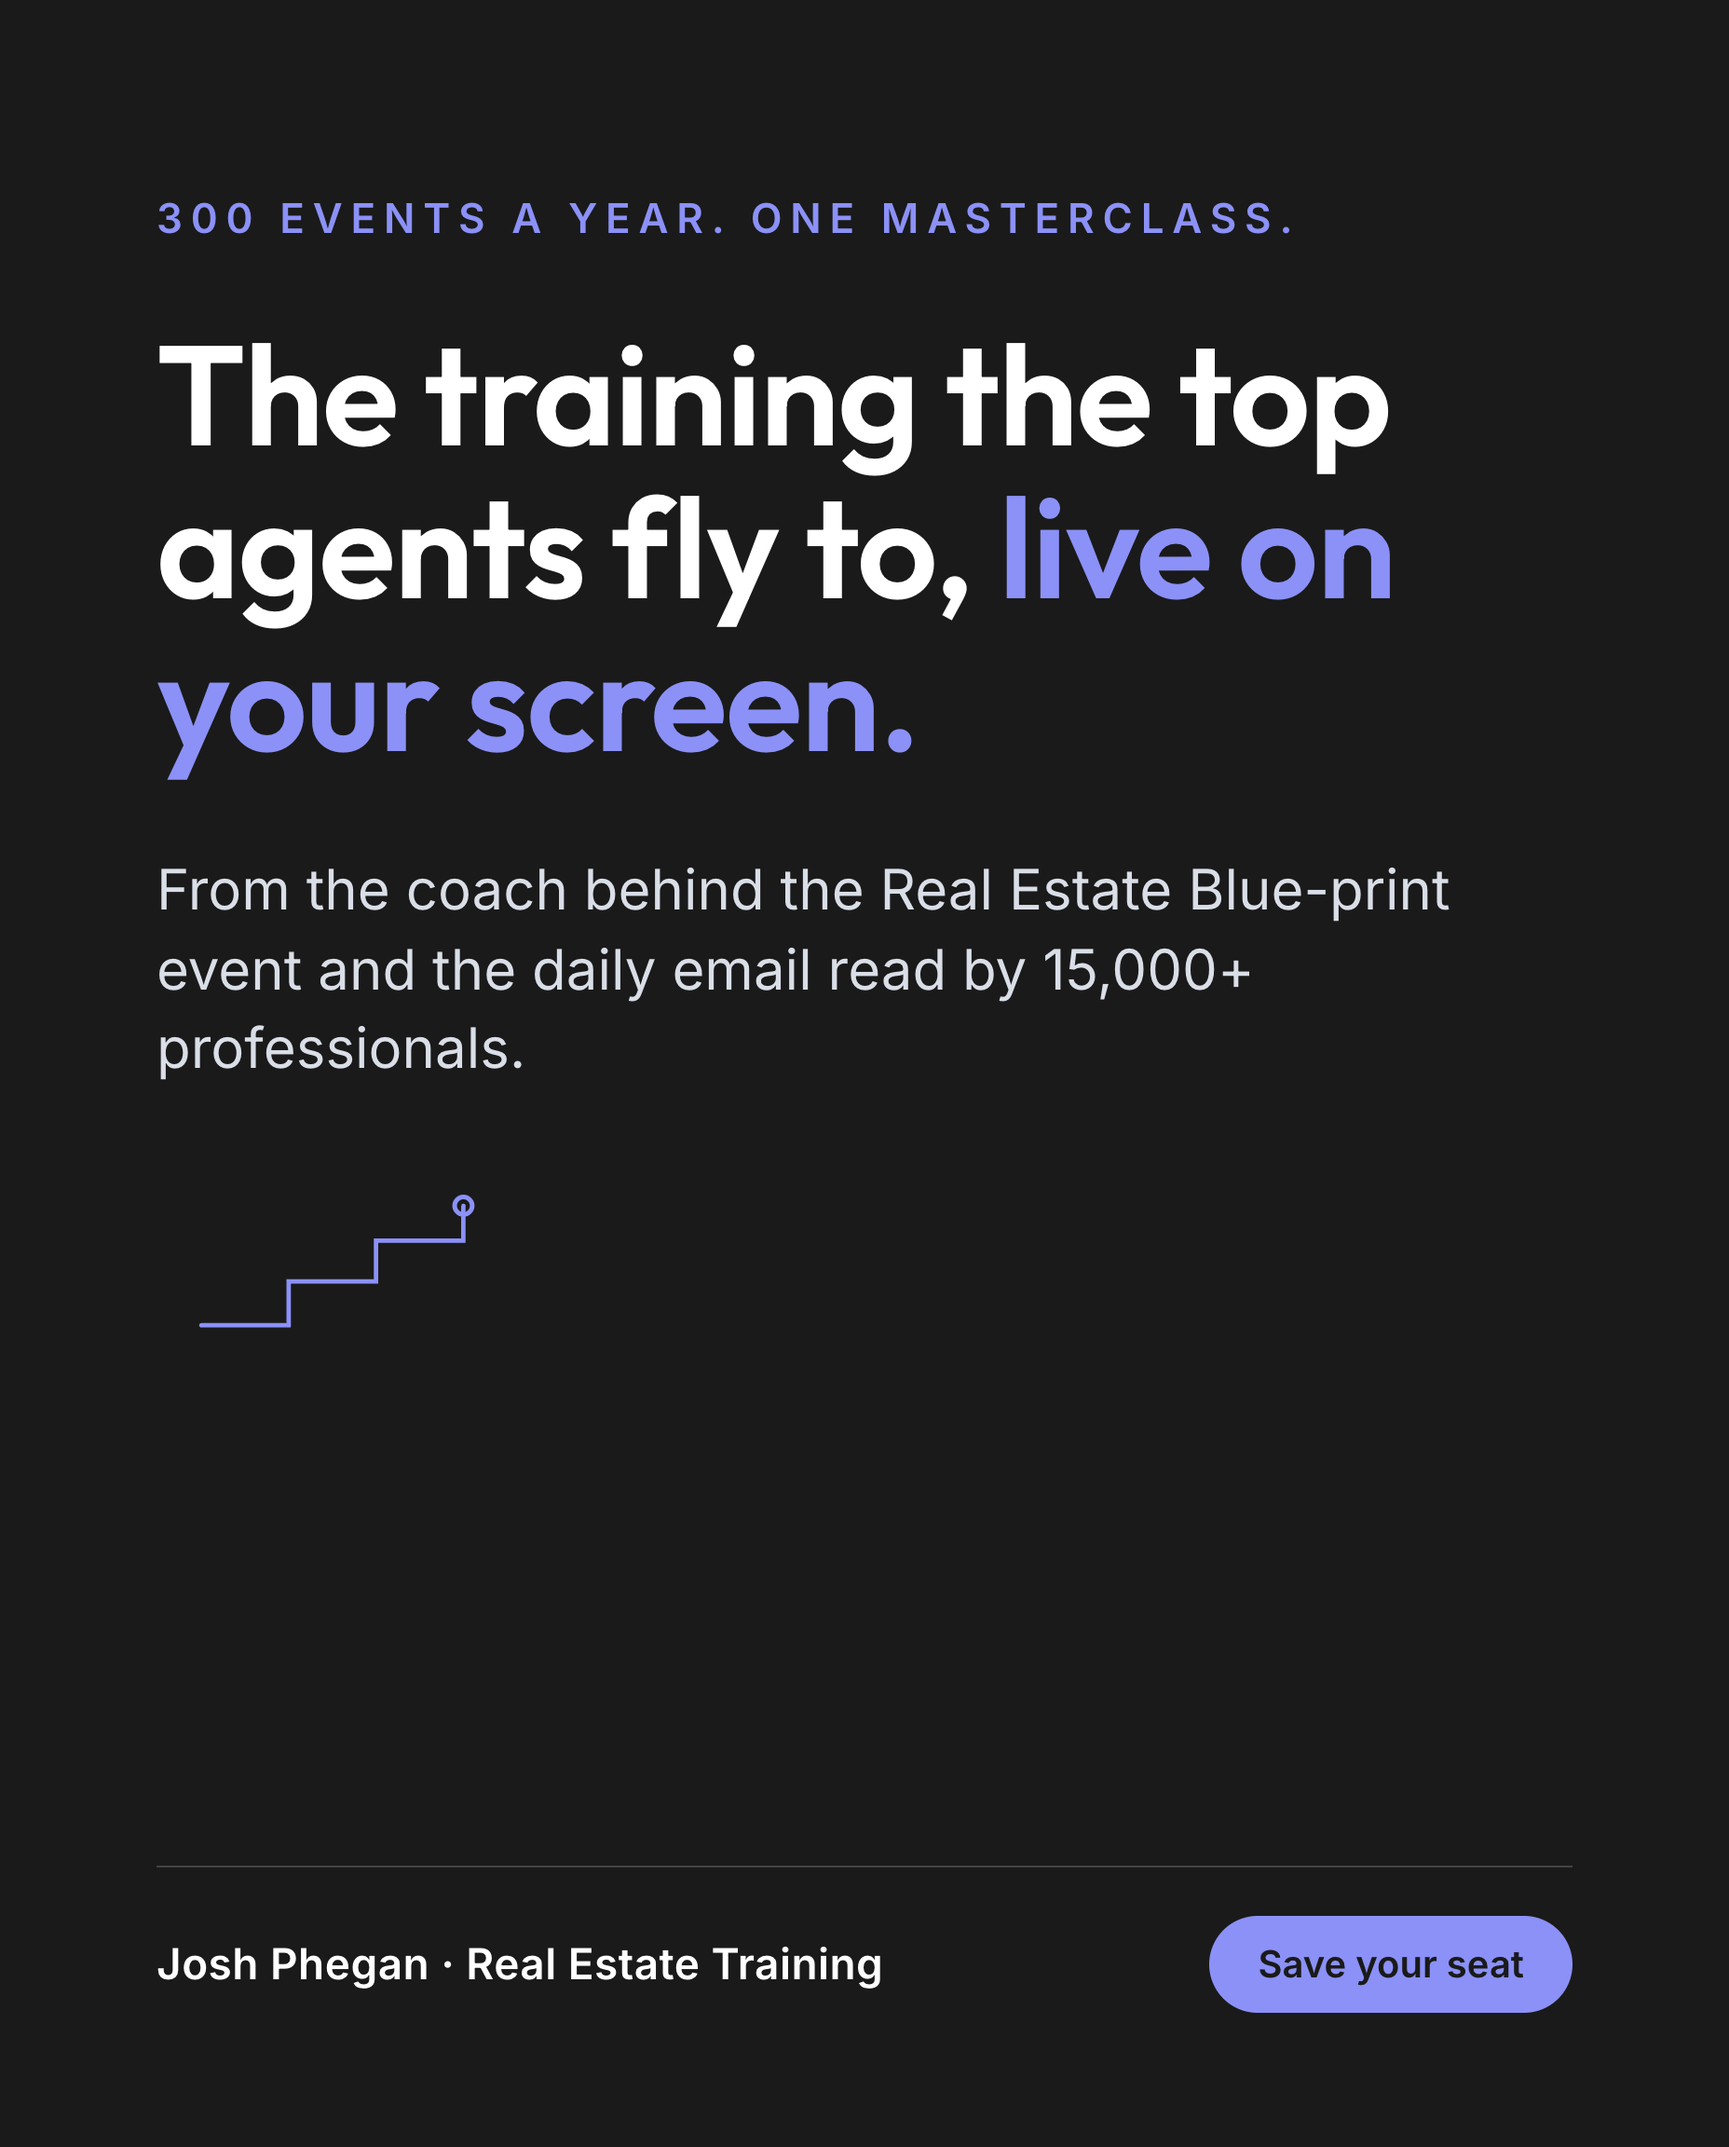
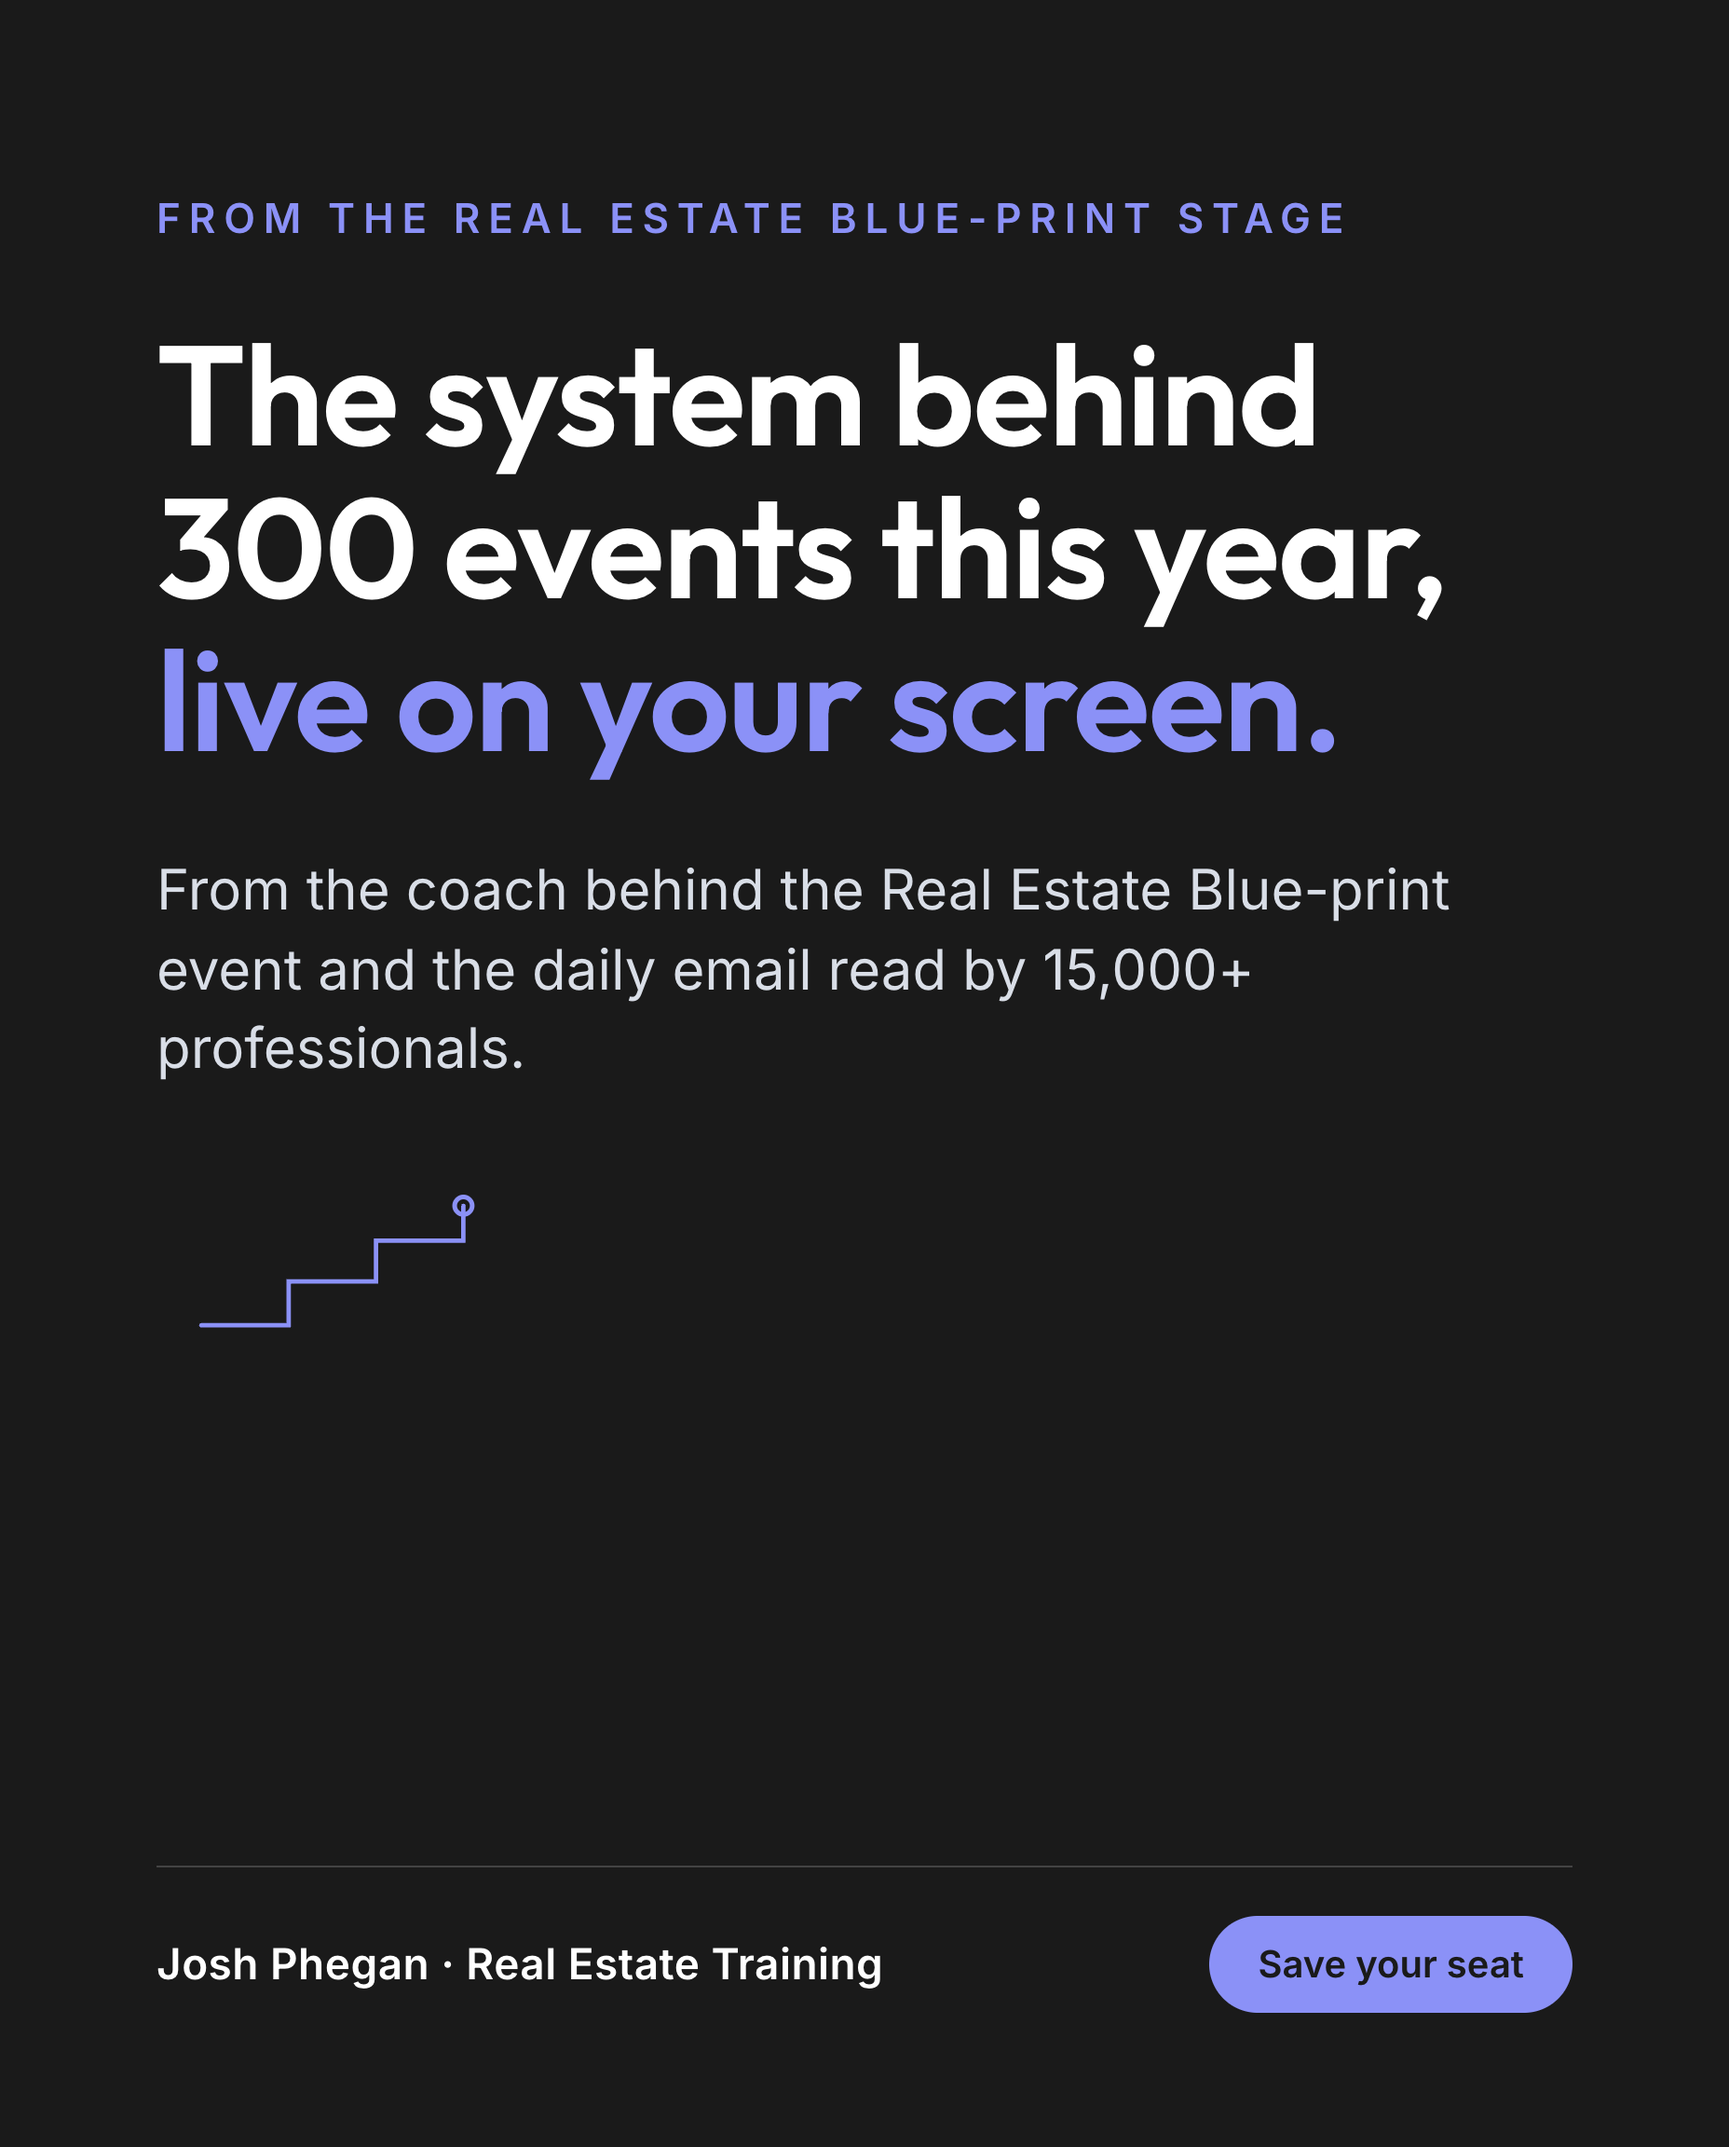
showcase: josh-phegan

Changed region(s): [[0.0938, 0.1562, 0.8438, 0.375], [0.0938, 0.0938, 0.7812, 0.125]]

diff --git a/josh-phegan/index.html b/josh-phegan/index.html
@@ -73,7 +73,7 @@
   </div>
 
   <h1>The Blue-print Masterclass</h1>
-  <p class="framing">Here is what I mentioned in my email: the masterclass, the numbers, and the auction data that did not fit in the message. You already built the hard part: the Blue-print, the Intense Program, List Sell Negotiate, 300 events a year, and the daily email behind it all. <strong>What you don't have is a system to bring in agents who have never heard of you and convert them into Digital members and coaching clients. This is that system.</strong></p>
+  <p class="framing">Here is what I mentioned in my email: the masterclass, the numbers, and the auction data that did not fit in the message. You already built the hard part: the Blue-print, the Intense Program, List Sell Negotiate, 300 events this year, and the daily email behind it all. <strong>What you don't have is a system to bring in agents who have never heard of you and convert them into Digital members and coaching clients. This is that system.</strong></p>
 
   <div class="section">
     <div class="section-label">The masterclass, already built</div>
@@ -87,7 +87,7 @@
       <img src="/josh-phegan/ad01.png" alt="Ad concept: Every month starts from zero. That is a system problem">
       <img src="/josh-phegan/ad02.png" alt="Ad concept: The number one preferred trainer for Australia's top 100 agents">
       <img src="/josh-phegan/ad03.png" alt="Ad concept: One system for prospecting, listing, negotiation and growth">
-      <img src="/josh-phegan/ad04.png" alt="Ad concept: 300 events a year, one live masterclass">
+      <img src="/josh-phegan/ad04.png" alt="Ad concept: the system behind 300 events this year, live on your screen">
     </div>
   </div>
 
@@ -126,11 +126,12 @@
         <tr class="hl"><td>Jess Lenouvel / The Listings Lab</td><td>Marketing and lead-gen coaching for agents</td><td class="running">Running: ~260</td></tr>
         <tr><td>AceableAgent</td><td>Licensing and exam-prep education</td><td class="running">Running: ~76</td></tr>
         <tr><td>Tom Ferry Coaching</td><td>US agent coaching, marketing-led</td><td class="running">Running: ~38</td></tr>
+        <tr><td>LuxeScale, Client Giant</td><td>Luxury-agent accelerator; client-gifting service</td><td class="running">Running: ~17 each</td></tr>
         <tr><td>Anyone teaching a performance system from the top of the market</td><td>Consistency and operating rhythm, not lead gen</td><td class="not-running">None found in the check</td></tr>
-        <tr class="you"><td>Josh Phegan</td><td>High-performance training for agents and agencies</td><td class="not-running">Not running, none found</td></tr>
+        <tr class="you"><td>Josh Phegan</td><td>High-performance training for agents and agencies</td><td class="not-running">None found in the check</td></tr>
       </tbody>
     </table>
-    <p class="fn">Agents scroll the same feed as everyone else, and hundreds of ads are buying their attention with marketing tactics and licensing courses every day, which means agent attention is bought with education already. No one we could find in the auction teaches what you actually own: the system the top of the market runs on. That lane is wide open for you, and the missing piece is paid traffic into the masterclass above.</p>
+    <p class="fn">Agents scroll the same feed as everyone else, and hundreds of ads globally are buying their attention with marketing tactics and licensing courses every day, which means agent attention is bought with education already. No one we could find in the auction teaches what you actually own: the system the top of the market runs on. That lane is wide open for you, and the missing piece is paid traffic into the masterclass above.</p>
   </div>
 
   <div class="section calendly-section">

diff --git a/josh-phegan/deck.html b/josh-phegan/deck.html
@@ -65,7 +65,7 @@
 <div class="nav prev" id="prev"></div>
 <div class="nav next" id="next"></div>
 <div class="hud"><i id="bar"></i></div>
-<div class="count" id="count">01 / 20</div>
+<div class="count" id="count">01 / 19</div>
 <div class="brand-foot">Josh Phegan</div>
 <div class="hint" id="hint">&rarr; click or arrow keys</div>
 
@@ -90,7 +90,7 @@ const S = [
 
  {t:'section',idx:'Part One',title:'Why Bursts Beat You'},
  {t:'normal',k:'The energy trap',title:'Effort without a system produces income without a pattern.',body:'A big month funds a quiet month, prospecting stops the moment listings arrive, and the pipeline empties exactly when you can least afford it. The result is a career that feels like starting over every season, no matter how good the last one was.'},
- {t:'normal',k:'The consistency gap',title:'What separates the top of the industry is not talent. It is cadence.',body:'Josh has trained and coached the who’s who of Australian real estate, including the country’s number one writers, and the pattern at the top is the same everywhere: the calls happen every day, the pipeline is measured, and the week is designed before it starts.'},
+ {t:'normal',k:'The consistency gap',title:'What separates the top of the industry is not talent. It is cadence.',body:'Josh has trained and coached the who’s who of Australian real estate, including the country’s number one writer. The pattern he teaches from the top is the same: the calls happen every day, the pipeline is measured, and the week is designed before it starts.'},
  {t:'dark',title:'You do not need a better market. You need a repeatable week.'},
 
  {t:'section',idx:'Part Two',title:'The Blue-print'},
@@ -106,7 +106,7 @@ const S = [
 
  {t:'section',idx:'Your Next Step',title:'Run the Week the Top Agents Run'},
  {t:'normal',k:'How it works',title:'The masterclass teaches the Blue-print. The next step is living it.',body:'Josh Phegan Digital carries the full Blue-print curriculum with short courses, interviews and the resource library. For agents who want momentum fast, the Intense Program puts Josh in your corner every business day for four weeks, and Private Coaching sessions take on the specific blockages in your business.'},
- {t:'cta',title:'Ready to trade the bursts for a system?',chips:['Explore Josh Phegan Digital','Apply for the Intense Program'],disc:'Educational content for real estate agents. No income, fee, or business result is guaranteed. Results vary by agent, market, and effort. Client figures cited are Josh Phegan’s own published examples.'},
+ {t:'cta',title:'Ready to trade the bursts for a system?',chips:['Explore Josh Phegan Digital','Apply for the Intense Program'],disc:'Educational content for real estate agents. No income, fee, or business result is guaranteed. Results vary by agent, market, and effort. All client figures are published examples from Josh Phegan’s own materials; individual results vary.'},
 ];
 
 const deck=document.getElementById('deck');
